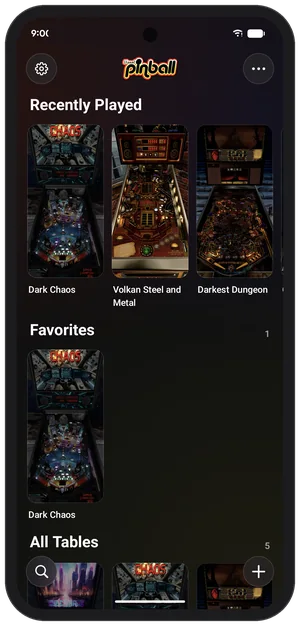
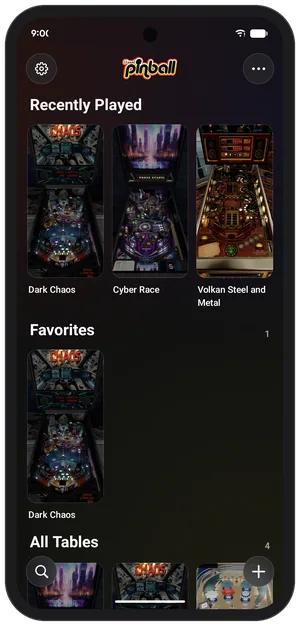
docs: credit tables in mobile screenshots

diff --git a/docs/Mobile.md b/docs/Mobile.md
@@ -258,3 +258,5 @@ Found a bug, or missing a feature? Visual Pinball is open source and contributio
 Visual Pinball is the work of many people over many years, and the mobile apps stand on dozens of other open source projects. The *Credits* section of the app's settings names them all; the full list of third party libraries is in [third-party/README.md](../third-party/README.md).
 
 Visual Pinball is released under the [GPL license](../LICENSE). The mobile apps collect no personal data; the [privacy policy](../PRIVACY.md) has the details.
+
+The tables in the screenshots are [Dark Chaos](https://vpuniverse.com/files/file/24875-dark-chaos-apophis-2025/) by apophis, [Cyber Race](https://vpuniverse.com/files/file/17837-cyber-race-flux-original-2023/) by flux and [Volkan Steel and Metal](https://vpuniverse.com/files/file/14978-volkan-steel-and-metal-original-2023/) by Onevox, all original creations shared on VPUniverse.
